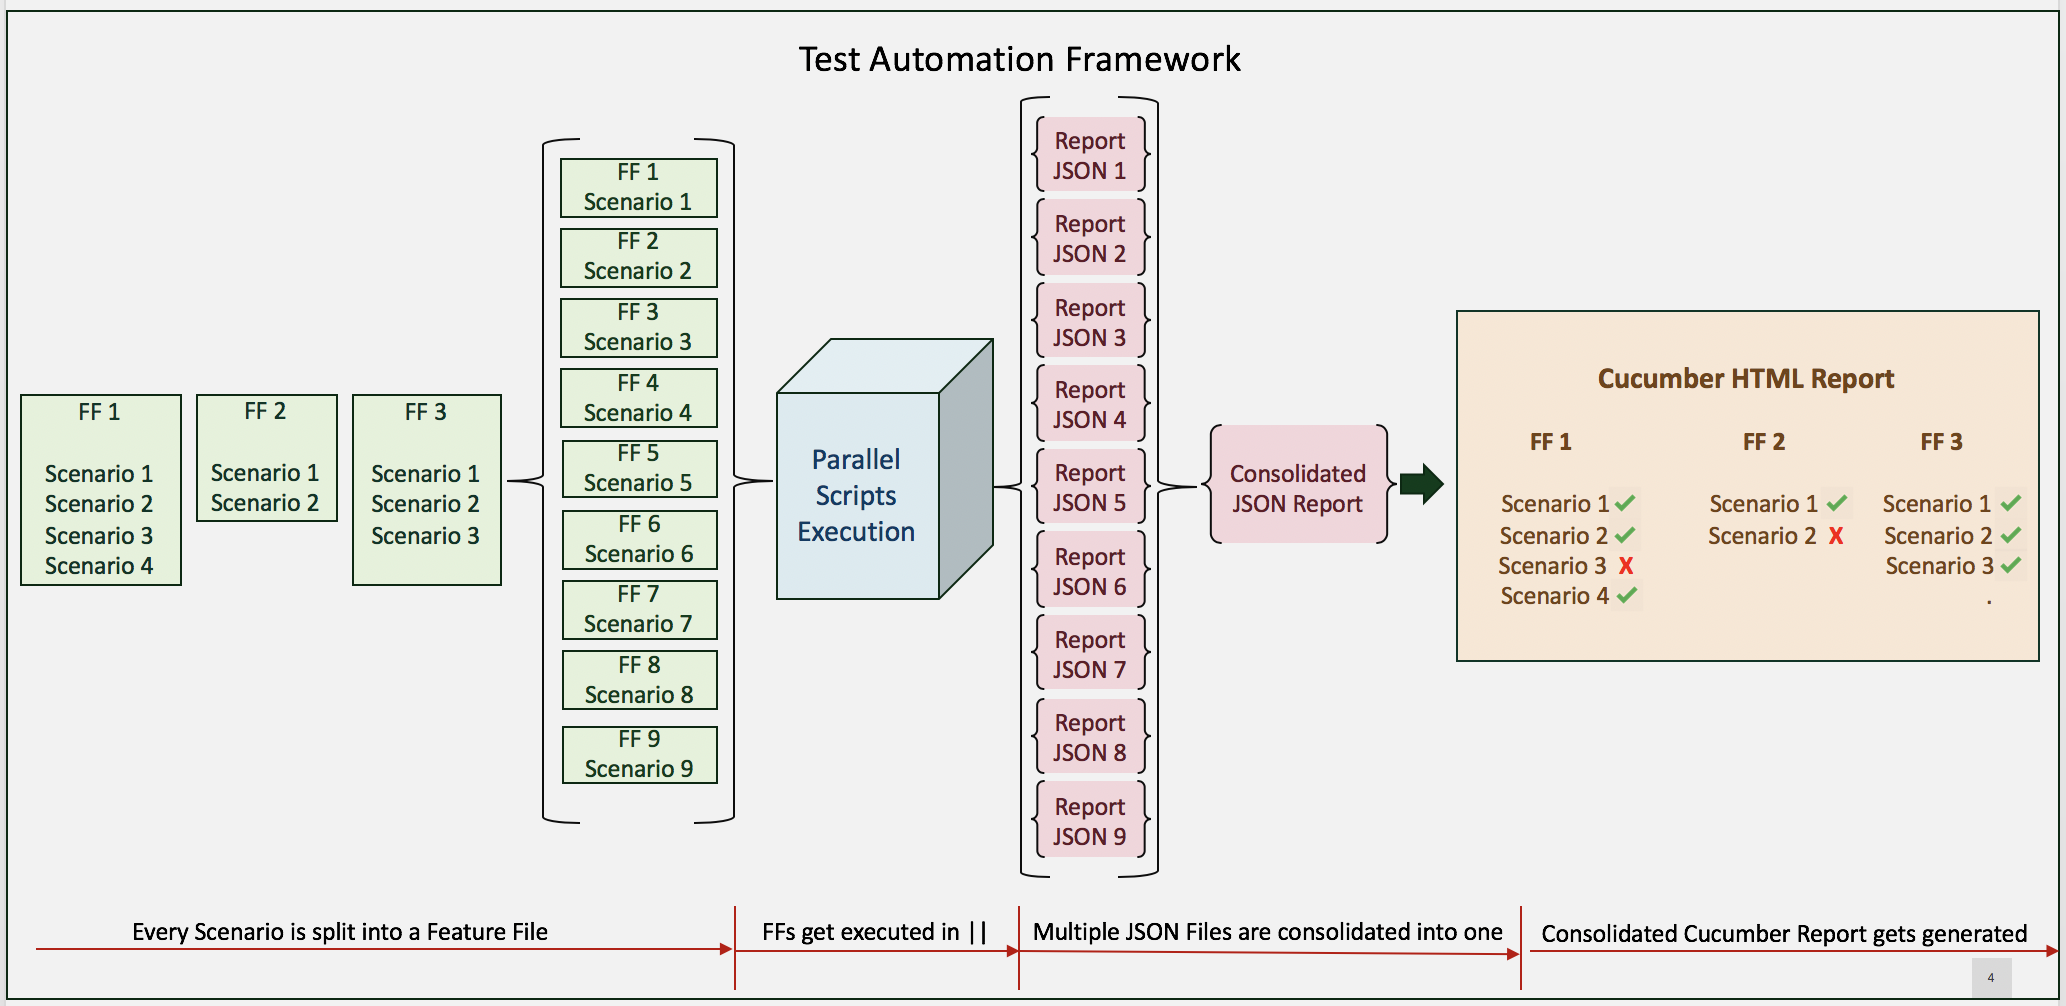
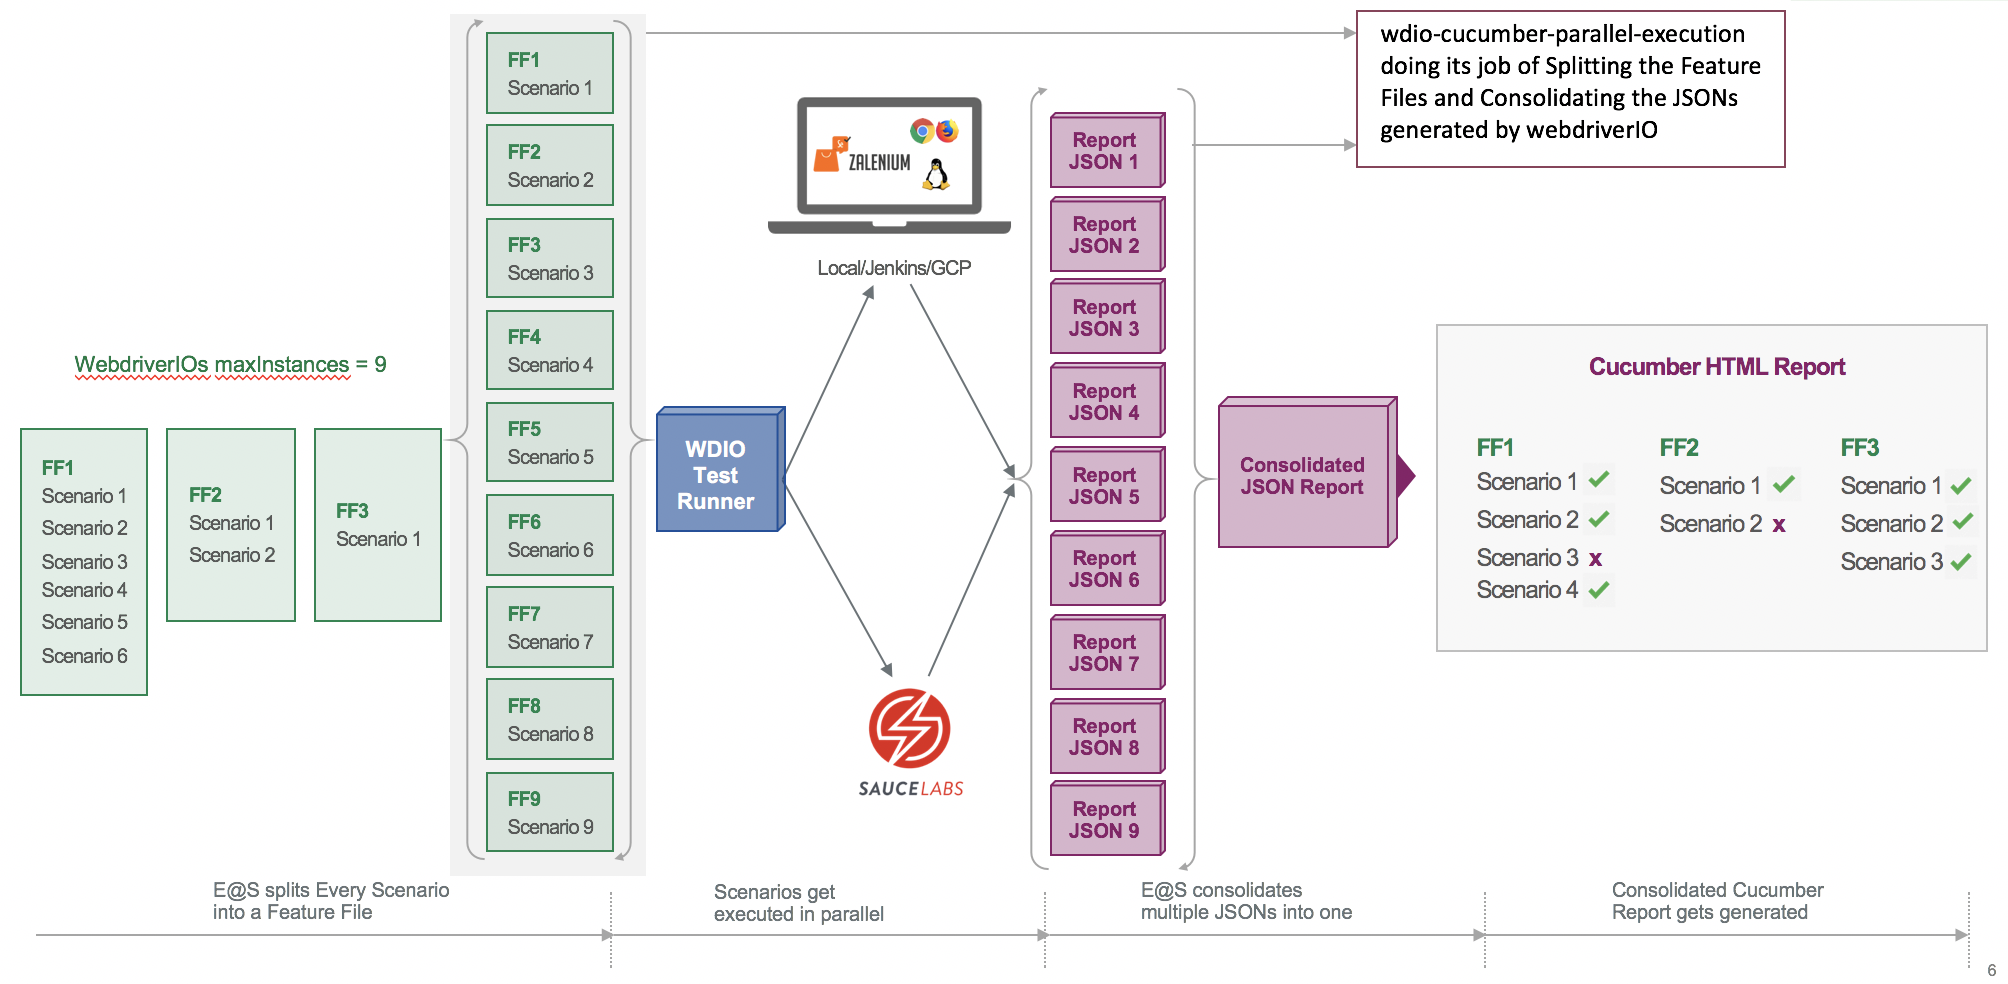
Updated the Architecture Diagram

diff --git a/README.md b/README.md
@@ -19,6 +19,7 @@ npm install wdio-cucumber-parallel-execution
 
 ![ParallelExecution](parallelExecution.png)
 
+Assuming 1 Scenario takes 1 minute on Average, Total Execution Time will be 1 minute for 9 Scenarios since  all 9 Scenarios will get executed in parallel
 
 # API
 
@@ -36,10 +37,10 @@ This Feature Creates/Removes the Spec and Temp Folders and puts every Scenario i
 |----------------------------------|--------|-------------------------------------------------------------------------------------------------|
 | sourceSpecDirectory              | string | glob expression for sourceSpecDirectory                                                         |
 | tmpSpecDirectory                 | string | Path to temp folder containing the Temporary Feature Files (Gets removed in the next execution) |
-| parallelExecutionReportDirectory | string | Path to Parallel Execution Report Directory where all the Reports will be saved                 |
 | tagExpression (optional)         | string | Tag expression to parse                                                                         |
 | ff (optional)                    | string | Feature File Name to parse                                                                      |
 | lang (optional)                  | string | Language of sourceSpecDirectory                                                                 |
+| cleanTmpSpecDirectory            | Boolean| Boolean for cleaning the Temp Spec Directory                                                    |
 
 
 
@@ -67,10 +68,10 @@ const wdioParallel = require('wdio-cucumber-parallel-execution');
 wdioParallel.performSetup({
     sourceSpecDirectory: sourceSpecDirectory,
     tmpSpecDirectory: tmpSpecDirectory,
-    parallelExecutionReportDirectory: parallelExecutionReportDirectory,
     tagExpression: argv.tags,
     ff: argv.ff,
-    lang: 'en'
+    lang: 'en',
+    cleanTmpSpecDirectory: true
 });
 
 
